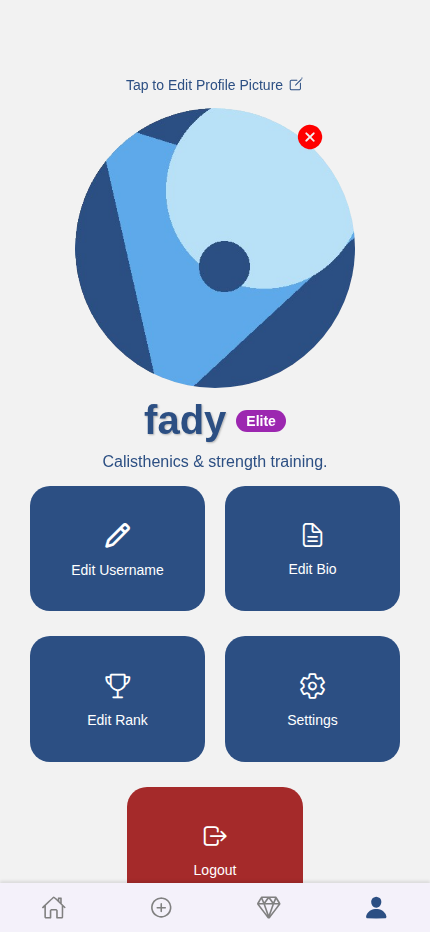
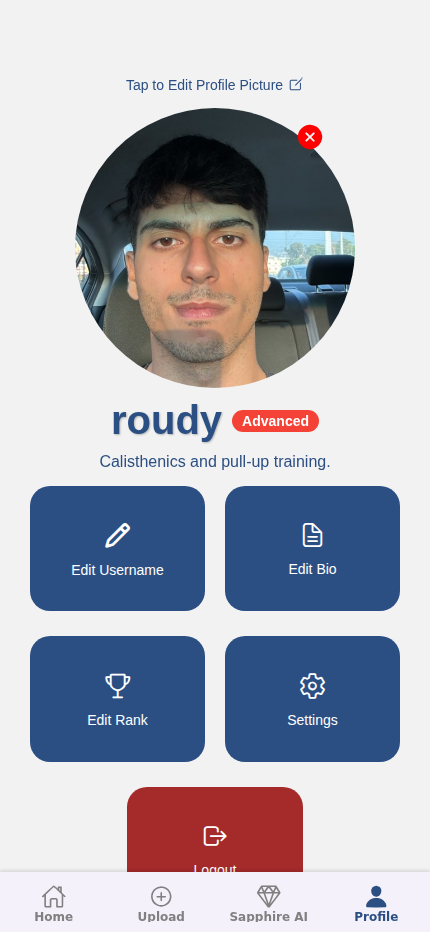
Fix missing bottom-tab labels on web, refresh demo photos and screenshots
- tabBarStyle never set an explicit height, so react-navigation's web
  default came out too short for both the icon and its label — the
  label div was flex-shrunk to a computed 1px and clipped by
  overflow:hidden, so the web build silently lost its tab text while
  native had room for it. Set an explicit height so both fit.
- Replaced two demo users' avatars and posts with real photos (consent
  given for this specific use) instead of abstract avatars and stock
  equipment photos, added a third filler user so the feed isn't
  sparse without drawing attention to it, and captured a screenshot of
  tapping a poster's name to view their profile.
- Re-captured every screenshot affected by the above.

diff --git a/Frontend/App.js b/Frontend/App.js
@@ -171,6 +171,11 @@ function TabNavigator() {
           elevation: 5,
           paddingBottom: 5,
           paddingTop: 5,
+          // Without an explicit height, react-navigation's web default is too
+          // short to fit both the icon and its label, so the label gets
+          // flex-shrunk to ~1px and clipped by overflow:hidden — the tab bar
+          // silently loses its text on web even though native has room for it.
+          height: 60,
         },
         tabBarLabelStyle: {
           fontSize: 12,

diff --git a/README.md b/README.md
@@ -31,6 +31,7 @@ Express/PostgreSQL API and a React admin console.
 <table>
   <tr>
     <td align="center"><img src="screenshots/mobile-home.png" width="180" alt="Home feed"/><br/>Home feed</td>
+    <td align="center"><img src="screenshots/mobile-user-profile-modal.png" width="180" alt="Tap a poster's name for their profile"/><br/>Tap a name for their profile</td>
     <td align="center"><img src="screenshots/mobile-upload.png" width="180" alt="New post"/><br/>New post</td>
     <td align="center"><img src="screenshots/mobile-profile.png" width="180" alt="Profile"/><br/>Profile</td>
     <td align="center"><img src="screenshots/mobile-settings.png" width="180" alt="Settings"/><br/>Settings</td>
